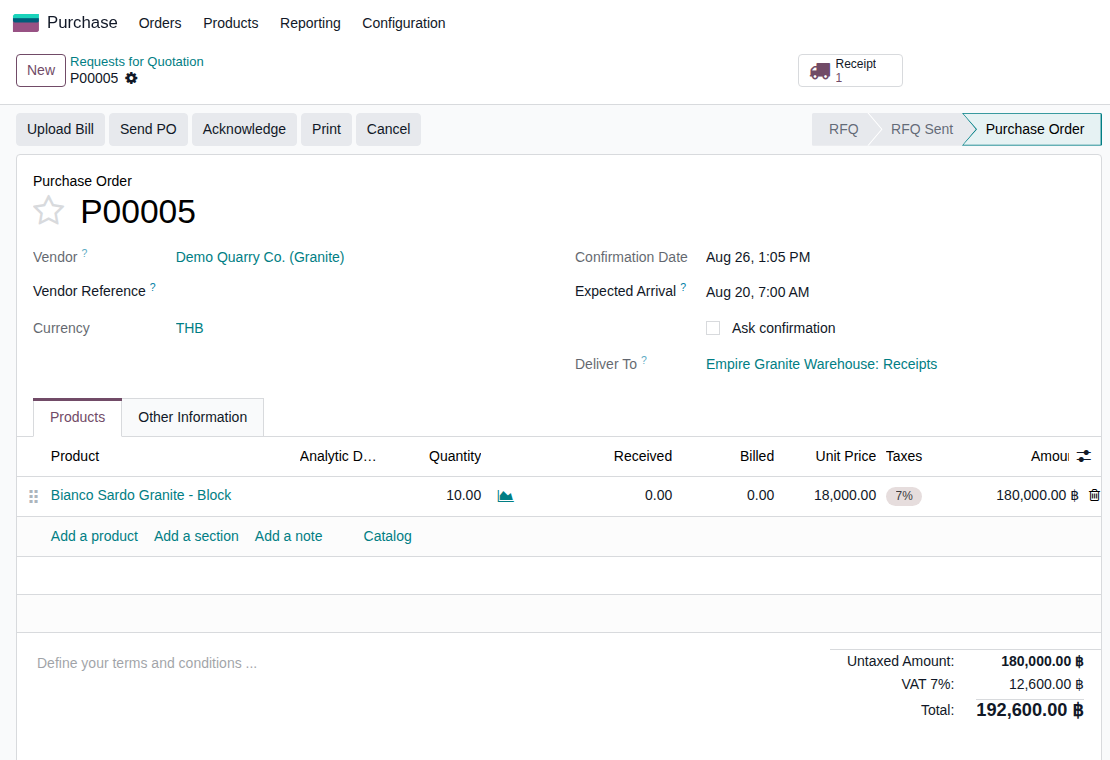
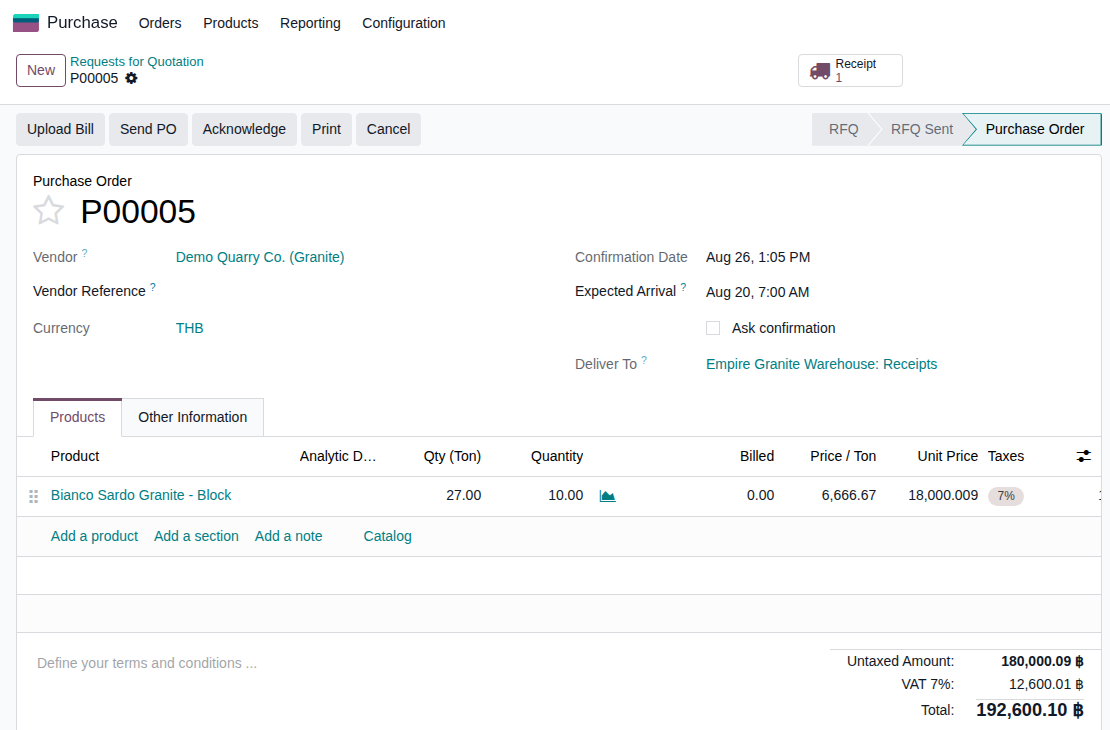
day-in-life: slide 5 PO example now reflects real ton-based purchasing (ADR-040)
PO005 was re-entered live on mbx-ee-dev via Qty(Ton)/Price-per-Ton (27 ton
@ 6,666.67/ton -> 10 CBM @ 18,000.01/CBM) instead of the old CBM-only entry,
matching how suppliers actually quote stone blocks by weight. Screenshots
and table/caption text updated to match; downstream cost figures (360, 648)
unchanged at displayed precision.

diff --git a/presentations/day-in-life.html b/presentations/day-in-life.html
@@ -246,14 +246,14 @@
           <div class="data-map-label">ตัวอย่างจริงจากระบบ — Bianco Sardo Granite</div>
           <table class="data-map-table gl">
             <tr><td>ค่าเริ่มต้นที่กรอกตอน Setup</td><td></td><td class="num">2,000 /แผ่น</td></tr>
-            <tr><td>ใบสั่งซื้อจริง P00005: 10 CBM × 18,000</td><td></td><td class="num">180,000</td></tr>
+            <tr><td>ใบสั่งซื้อจริง P00005: 27 ตัน × 6,666.67/ตัน</td><td></td><td class="num">180,000</td></tr>
             <tr><td>หนา 2 ซม. → ต้นทุน/ตร.ม. (18,000×0.02)</td><td></td><td class="num">360</td></tr>
             <tr><td>แผ่นจริงขนาด 1.8 ตร.ม. → ต้นทุนจริง (360×1.8)</td><td></td><td class="num">648</td></tr>
           </table>
         </div>
       </div>
       <div class="col-right">
-        <div class="shot-wrap"><img class="shot" src="assets/141-day-in-life-po-real-cost.png"><div class="shot-cap">1. ใบสั่งซื้อจริง P00005 — 10 CBM × 18,000 บาท</div></div>
+        <div class="shot-wrap"><img class="shot" src="assets/141-day-in-life-po-real-cost.png"><div class="shot-cap">1. ใบสั่งซื้อจริง P00005 — กรอก 27 ตัน × 6,666.67 บาท/ตัน ระบบแปลงเป็น 10 CBM × 18,000 บาท/CBM ให้เอง</div></div>
         <div class="shot-wrap"><img class="shot" src="assets/142-day-in-life-bundle-cost-breakdown.png"><div class="shot-cap">2. Cost/CBM คำนวณอัตโนมัติ + รายการแผ่นที่ตัดได้</div></div>
       </div>
     </div>
